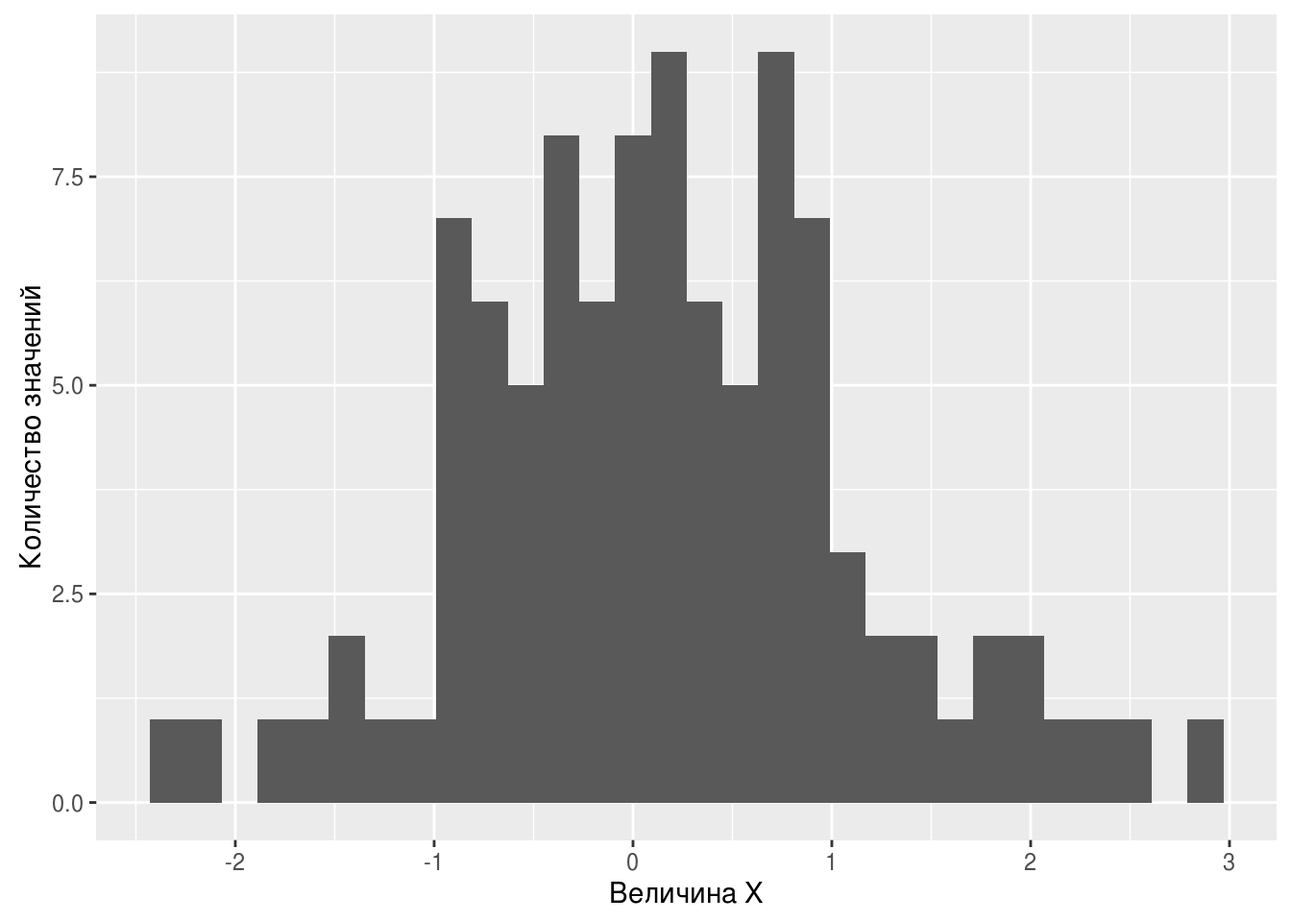
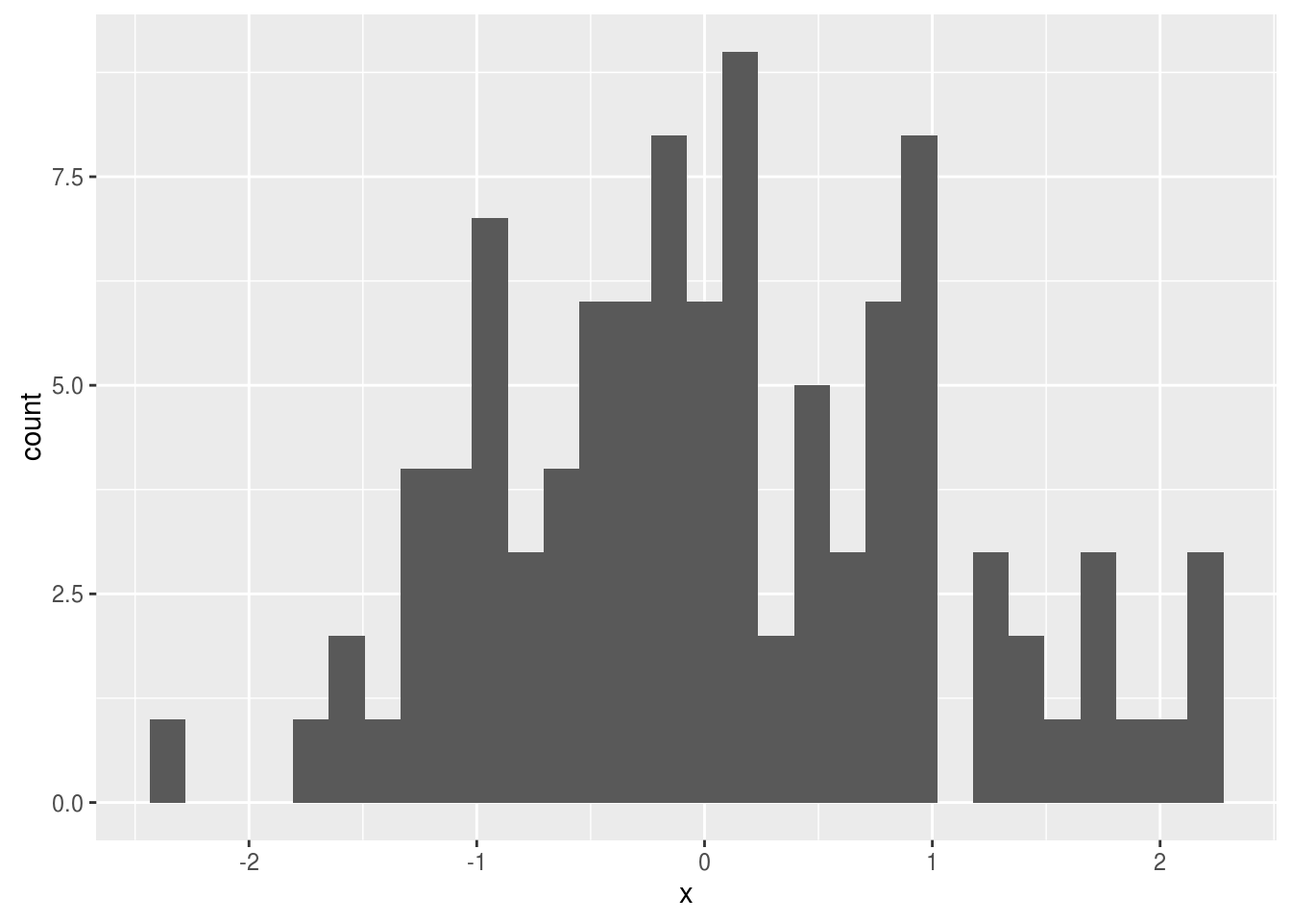
Update the book (29)

diff --git a/first-steps.html b/first-steps.html
@@ -25,7 +25,7 @@
 
 <meta name="author" content="Борис Демешев">
 
-<meta name="date" content="2016-08-24">
+<meta name="date" content="2016-08-25">
 
 <script type="text/x-mathjax-config">
 MathJax.Hub.Config({
@@ -171,7 +171,7 @@ code > span.in { color: #60a0b0; font-weight: bold; font-style: italic; } /* Inf
 <li class="chapter" data-level="3.24" data-path="statistics-and-more.html"><a href="statistics-and-more.html#optimisation"><i class="fa fa-check"></i><b>3.24</b> Задачи оптимизации</a></li>
 </ul></li>
 <li class="divider"></li>
-<li><a href="https://github.com/rstudio/bookdown" target="blank">Создано с использованием пакета bookdown</a></li>
+<li><a href="https://github.com/rstudio/bookdown"   target="blank">Создано с использованием пакета bookdown</a></li>
 
 </ul>
 
@@ -192,8 +192,6 @@ code > span.in { color: #60a0b0; font-weight: bold; font-style: italic; } /* Inf
             <section class="normal" id="section-">
 <div id="first_steps" class="section level1">
 <h1><span class="header-section-number">Глава 1</span> Первые шаги</h1>
-<div class="sourceCode"><pre class="sourceCode r"><code class="sourceCode r"><span class="kw">library</span>(<span class="st">&quot;knitr&quot;</span>)
-<span class="kw">library</span>(<span class="st">&quot;tikzDevice&quot;</span>)</code></pre></div>
 <p>ываыв а ываыв</p>
 <div id="installation" class="section level2">
 <h2><span class="header-section-number">1.1</span> Установка софта</h2>
@@ -246,10 +244,14 @@ code > span.in { color: #60a0b0; font-weight: bold; font-style: italic; } /* Inf
 <p>….</p>
 <p>Если текст программы содержит русские или другие неанглийские буквы, например, в комментариях, то при сохранении файла Rstudio предложит выбрать кодировку.</p>
 <p>картинка</p>
-<p>Кодировка определяет какой конкретно числовой код будет сопоставлен в записанном файле каждой букве. Например, букве <code>ё</code> в кодировке … сопоставлен код …</p>
-<p>Для русского языка есть несколько распространённых кодировок: UTF-8 и CP1251. Linux и Macos используют по умолчанию кодировку UTF-8, а вот Windows сохраняет простые текстовые файлы в CP1251. Здесь сноска: на самом деле всё немного хитрее и помимо CP1251 Windows использует …</p>
+<p>Кодировка определяет какой конкретно числовой код будет сопоставлен в записанном файле каждой букве. Например, букве <code>ё</code> в кодировке UTF-8 сопоставлен десятичный<a href="#fn1" class="footnoteRef" id="fnref1"><sup>1</sup></a> код 1105.</p>
+<p>Для русского языка есть несколько распространённых кодировок: UTF-8 и CP1251. Linux и Macos используют по умолчанию кодировку UTF-8, а вот Windows<a href="#fn2" class="footnoteRef" id="fnref2"><sup>2</sup></a> сохраняет простые текстовые файлы в кодировке CP1251.</p>
 <p>Если русскоязычный файл записать в одной кодировке, а пытаться открыть с помощью другой, то мы увидим на экране “кракозябры”. Поэтому хорошо, когда все используют одну кодировку. Кодировка UTF-8 более универсальна, чем CP1251. Например, с помощью кодировки UTF-8 в одном тексте можно использовать и русские буквы и французские акценты и китайские иероглифы.</p>
-<p>Мы всегда будем использовать кодировку UTF-8.</p>
+<div class="warning">
+<p>
+Мы всегда будем использовать кодировку UTF-8.
+</p>
+</div>
 </div>
 <div id="packages" class="section level2">
 <h2><span class="header-section-number">1.4</span> Установка и подключение пакетов</h2>
@@ -273,7 +275,13 @@ code > span.in { color: #60a0b0; font-weight: bold; font-style: italic; } /* Inf
 <p>С репозитория CRAN пакет ставится командой R:</p>
 <div class="sourceCode"><pre class="sourceCode r"><code class="sourceCode r"><span class="kw">install.packages</span>(<span class="st">&quot;имя пакета&quot;</span>)</code></pre></div>
 <p>В Rstudio установить пакет с репозитория CRAN можно через меню: Tools - Install packages. Далее нужно набрать название пакета, можно указать сразу несколько названий через пробел, и нажать <code>Install</code>.</p>
-<p>Здесь главное — не бояться сообщений красным цветом! Любые <strong>сообщения</strong> (messages) R выводит красным цветом и по неопытности их можно принять за ошибку, что скорее всего не так. Ошибка всегда сопровождается словом <code>Error</code>.</p>
+<div class="warning">
+<p>
+Главное при установке пакета — не бояться сообщений красным цветом!
+</p>
+</div>
+<p>Любые <strong>сообщения</strong> (messages) R выводит красным цветом и по неопытности их можно принять за ошибку, что скорее всего не так. Ошибка всегда сопровождается словом <font color='red'>Error</font>. Если слова <font color='red'>Error</font> нет, то всё идёт по плану!</p>
+<p>Почему R использует красный цвет? Потому, что установка пакета — это потенциально опасное действие, как и установка любой программы. Пакеты на официальном репозитории CRAN проходят определённую проверку, но если ты используешь R для многомиллионных сделок каждый день, то неплохо бы точно знать, что ты ставишь :)</p>
 <p>Установить пакет с github.com немногим сложнее. Здесь надо знать не только название пакета, но и название репозитория, где он хранится. Часто название репозитория — это фамилия автора пакета. Официальной классификации всех пакетов R на github нет, поэтому чтобы понять, какой нужен, остаётся только гуглить.</p>
 <p>Кроме того, для установки пакетов с github.com потребуется установить с официального репозитория</p>
 <p>Джентельменский набор пакетов R зависит от сферы деятельности, но практически всем сталкивающимся с анализом данных пригодятся:</p>
@@ -283,7 +291,7 @@ code > span.in { color: #60a0b0; font-weight: bold; font-style: italic; } /* Inf
 <div class="sourceCode"><pre class="sourceCode r"><code class="sourceCode r">x &lt;-<span class="st"> </span><span class="kw">rnorm</span>(<span class="dv">100</span>) <span class="co"># генерируем случайную выборку из 100 нормальных N(0;1) случайных величин</span>
 ggplot2::<span class="kw">qplot</span>(x) </code></pre></div>
 <pre><code>## `stat_bin()` using `bins = 30`. Pick better value with `binwidth`.</code></pre>
-<p><img src="r_manual_files/figure-html/unnamed-chunk-3-1.png" width="672" /></p>
+<p><img src="r_manual_files/figure-html/unnamed-chunk-4-1.png" width="672" /></p>
 <p>Если же ты хочешь использовать команды некоторого пакета много раз, то проще <strong>подключить</strong> пакет командой <code>library()</code>. При этом не надо будет каждый раз набирать название пакета и двойное двоеточие. Можно просто использовать команды из этого пакеты:</p>
 <div class="sourceCode"><pre class="sourceCode r"><code class="sourceCode r"><span class="kw">library</span>(<span class="st">&quot;ggplot2&quot;</span>) <span class="co"># подключаем пакет `ggplot2`</span>
 
@@ -293,14 +301,18 @@ y &lt;-<span class="st"> </span>x^<span class="dv">2</span> +<span class="st"> <
 <span class="co"># строим гистограмму величины x:</span>
 <span class="kw">qplot</span>(x) +<span class="st"> </span><span class="kw">xlab</span>(<span class="st">&quot;Величина X&quot;</span>) +<span class="st"> </span><span class="kw">ylab</span>(<span class="st">&quot;Количество значений&quot;</span>)</code></pre></div>
 <pre><code>## `stat_bin()` using `bins = 30`. Pick better value with `binwidth`.</code></pre>
-<p><img src="r_manual_files/figure-html/unnamed-chunk-4-1.png" width="672" /></p>
+<p><img src="r_manual_files/figure-html/unnamed-chunk-5-1.png" width="672" /></p>
 <div class="sourceCode"><pre class="sourceCode r"><code class="sourceCode r"><span class="co"># строим диагрраму рассеяния величин x и y:</span>
 <span class="kw">qplot</span>(x, y) +<span class="st"> </span><span class="kw">xlab</span>(<span class="st">&quot;Величина X&quot;</span>) +<span class="st"> </span><span class="kw">ylab</span>(<span class="st">&quot;Величина Y&quot;</span>)</code></pre></div>
-<p><img src="r_manual_files/figure-html/unnamed-chunk-4-2.png" width="672" /></p>
+<p><img src="r_manual_files/figure-html/unnamed-chunk-5-2.png" width="672" /></p>
 <p>При подключении пакета, как и при его установке, не стоит пугаться сообщений красным шрифтом. Только явное слово <code>Error</code> говорит об ошибке. Кроме того, часто можно столкнуться с <strong>предупреждением</strong> (warning) о том, что пакет был создан для более новой версии R.</p>
-<p><code>Warning message: package 'xxx' was built under R version 3.3.1</code></p>
-<p>Это означает лишь то, что …</p>
-<p>Правила хорошего тона советуют подключать все нужные пакеты в начале скрипта.</p>
+<p><font color='red'>Warning message: package ‘xxx’ was built under R version 3.3.1</font></p>
+<p>Это не страшно. Это означает лишь, что у разработчика пакета <code>xxx</code> установлена более свежая версия R, чем у тебя. Обновлять R на своём компьютере при каждом его мелком обновлении, пожалуй, неразумно, но раз в полгода стоит.</p>
+<div class="warning">
+<p>
+Правила хорошего тона советуют подключать все нужные пакеты в начале скрипта.
+</p>
+</div>
 </div>
 <div id="io" class="section level2">
 <h2><span class="header-section-number">1.5</span> Чтение и запись данных</h2>
@@ -424,6 +436,13 @@ x -<span class="st"> </span>y</code></pre></div>
 
 </div>
 </div>
+<div class="footnotes">
+<hr />
+<ol start="1">
+<li id="fn1"><p>Если шестнадцатиричный, то 0451. Ради интереса можно посмотреть сопоставление букв и их кодов в UTF-8, например, на <a href="http://unicode-table.com/ru/">unicode-table.com</a><a href="first-steps.html#fnref1">↩</a></p></li>
+<li id="fn2"><p>На самом деле всё немного хитрее и сама Windows технически использует UTF-16, а вот многие приложения под ней — CP1251.<a href="first-steps.html#fnref2">↩</a></p></li>
+</ol>
+</div>
             </section>
 
           </div>
@@ -465,10 +484,10 @@ gitbook.start({
 "collapse": "section",
 "scroll_highlight": true
 },
+"search": true,
 "toolbar": {
 "position": "fixed"
-},
-"search": true
+}
 });
 });
 </script>

diff --git a/index.html b/index.html
@@ -25,7 +25,7 @@
 
 <meta name="author" content="Борис Демешев">
 
-<meta name="date" content="2016-08-24">
+<meta name="date" content="2016-08-25">
 
 <script type="text/x-mathjax-config">
 MathJax.Hub.Config({
@@ -171,7 +171,7 @@ code > span.in { color: #60a0b0; font-weight: bold; font-style: italic; } /* Inf
 <li class="chapter" data-level="3.24" data-path="statistics-and-more.html"><a href="statistics-and-more.html#optimisation"><i class="fa fa-check"></i><b>3.24</b> Задачи оптимизации</a></li>
 </ul></li>
 <li class="divider"></li>
-<li><a href="https://github.com/rstudio/bookdown" target="blank">Создано с использованием пакета bookdown</a></li>
+<li><a href="https://github.com/rstudio/bookdown"   target="blank">Создано с использованием пакета bookdown</a></li>
 
 </ul>
 
@@ -193,11 +193,62 @@ code > span.in { color: #60a0b0; font-weight: bold; font-style: italic; } /* Inf
 <div id="header">
 <h1 class="title">Учебник по языку R для начинающих</h1>
 <h4 class="author"><em>Борис Демешев</em></h4>
-<h4 class="date"><em>2016-08-24</em></h4>
+<h4 class="date"><em>2016-08-25</em></h4>
 </div>
 <div id="-" class="section level1 unnumbered">
 <h1>О книге</h1>
 <p>Сейчас живут три кита анализа данных и научных вычислений — Julia, Python и R. Эта книга про одного из китов!</p>
+<div class="sourceCode"><pre class="sourceCode r"><code class="sourceCode r"><span class="kw">library</span>(<span class="st">&quot;knitr&quot;</span>)
+<span class="kw">library</span>(<span class="st">&quot;tikzDevice&quot;</span>)
+
+activateTikz &lt;-<span class="st"> </span>function() {
+  
+  <span class="co"># tikz plots options</span>
+  <span class="kw">options</span>(<span class="dt">tikzDefaultEngine =</span> <span class="st">&quot;xetex&quot;</span>)
+  
+  <span class="co"># cash font metrics for speed:</span>
+  <span class="kw">options</span>(<span class="dt">tikzMetricsDictionary =</span> <span class="st">&quot;./tikz_metrics&quot;</span>) 
+  
+  add_xelatex &lt;-<span class="st"> </span><span class="kw">c</span>(<span class="st">&quot;</span><span class="ch">\\</span><span class="st">defaultfontfeatures{Ligatures=TeX,Scale=MatchLowercase}&quot;</span>,
+                   <span class="st">&quot;</span><span class="ch">\\</span><span class="st">setmainfont{Linux Libertine O}&quot;</span>,
+                   <span class="st">&quot;</span><span class="ch">\\</span><span class="st">setmonofont{Linux Libertine O}&quot;</span>,
+                   <span class="st">&quot;</span><span class="ch">\\</span><span class="st">setsansfont{Linux Libertine O}&quot;</span>,
+                   <span class="st">&quot;</span><span class="ch">\\</span><span class="st">newfontfamily{</span><span class="ch">\\</span><span class="st">cyrillicfonttt}{Linux Libertine O}&quot;</span>,
+                   <span class="st">&quot;</span><span class="ch">\\</span><span class="st">newfontfamily{</span><span class="ch">\\</span><span class="st">cyrillicfont}{Linux Libertine O}&quot;</span>,
+                   <span class="st">&quot;</span><span class="ch">\\</span><span class="st">newfontfamily{</span><span class="ch">\\</span><span class="st">cyrillicfontsf}{Linux Libertine O}&quot;</span>)
+  
+  <span class="kw">options</span>(<span class="dt">tikzXelatexPackages =</span> <span class="kw">c</span>(<span class="kw">getOption</span>(<span class="st">&quot;tikzXelatexPackages&quot;</span>),
+                                  add_xelatex))
+  
+  <span class="co"># does remove warnings:</span>
+  <span class="co"># it is important to remove fontenc package wich is loaded by default</span>
+  <span class="kw">options</span>(<span class="dt">tikzUnicodeMetricPackages =</span> <span class="kw">c</span>(<span class="st">&quot;</span><span class="ch">\\</span><span class="st">usetikzlibrary{calc}&quot;</span>,    
+                                        <span class="st">&quot;</span><span class="ch">\\</span><span class="st">usepackage{fontspec, xunicode}&quot;</span>, add_xelatex)) 
+  
+  
+  opts_chunk$<span class="kw">set</span>(<span class="dt">dev =</span> <span class="st">&quot;tikz&quot;</span>, <span class="dt">dev.args =</span> <span class="kw">list</span>(<span class="dt">pointsize =</span> <span class="dv">11</span>))
+}
+
+
+colFmt &lt;-<span class="st"> </span>function(x, color) {
+  outputFormat &lt;-<span class="st"> </span>opts_knit$<span class="kw">get</span>(<span class="st">&quot;rmarkdown.pandoc.to&quot;</span>)
+  if (outputFormat ==<span class="st"> &quot;latex&quot;</span>) {
+    result &lt;-<span class="st"> </span><span class="kw">paste0</span>(<span class="st">&quot;</span><span class="ch">\\</span><span class="st">textcolor{&quot;</span>, color, <span class="st">&quot;}{&quot;</span>, x, <span class="st">&quot;}&quot;</span>)
+  } else if (outputFormat %in%<span class="st"> </span><span class="kw">c</span>(<span class="st">&quot;html&quot;</span>, <span class="st">&quot;epub&quot;</span>)) {
+    result &lt;-<span class="st"> </span><span class="kw">paste0</span>(<span class="st">&quot;&lt;font color=&#39;&quot;</span>, color, <span class="st">&quot;&#39;&gt;&quot;</span>, x, <span class="st">&quot;&lt;/font&gt;&quot;</span>)
+  } else {
+    result &lt;-<span class="st"> </span>x
+  }
+  <span class="kw">return</span>(result)
+}
+
+outputFormat &lt;-<span class="st"> </span>opts_knit$<span class="kw">get</span>(<span class="st">&quot;rmarkdown.pandoc.to&quot;</span>)
+
+
+if (outputFormat ==<span class="st"> &quot;latex&quot;</span>) {
+  <span class="kw">activateTikz</span>()
+}</code></pre></div>
+<p>Данная версия книги скомпилирована для html.</p>
 
 </div>
             </section>
@@ -241,10 +292,10 @@ gitbook.start({
 "collapse": "section",
 "scroll_highlight": true
 },
+"search": true,
 "toolbar": {
 "position": "fixed"
-},
-"search": true
+}
 });
 });
 </script>

diff --git a/friends-of-R.html b/friends-of-R.html
@@ -25,7 +25,7 @@
 
 <meta name="author" content="Борис Демешев">
 
-<meta name="date" content="2016-08-24">
+<meta name="date" content="2016-08-25">
 
 <script type="text/x-mathjax-config">
 MathJax.Hub.Config({
@@ -171,7 +171,7 @@ code > span.in { color: #60a0b0; font-weight: bold; font-style: italic; } /* Inf
 <li class="chapter" data-level="3.24" data-path="statistics-and-more.html"><a href="statistics-and-more.html#optimisation"><i class="fa fa-check"></i><b>3.24</b> Задачи оптимизации</a></li>
 </ul></li>
 <li class="divider"></li>
-<li><a href="https://github.com/rstudio/bookdown" target="blank">Создано с использованием пакета bookdown</a></li>
+<li><a href="https://github.com/rstudio/bookdown"   target="blank">Создано с использованием пакета bookdown</a></li>
 
 </ul>
 
@@ -281,19 +281,23 @@ code > span.in { color: #60a0b0; font-weight: bold; font-style: italic; } /* Inf
 <ol start="8" style="list-style-type: decimal">
 <li>Красный шрифт</li>
 </ol>
-<p>взято с <a href="http://stackoverflow.com/questions/29067541" class="uri">http://stackoverflow.com/questions/29067541</a></p>
-<div class="sourceCode"><pre class="sourceCode r"><code class="sourceCode r"><span class="kw">library</span>(knitr)
-colFmt =<span class="st"> </span>function(x, color) {
-  outputFormat =<span class="st"> </span>opts_knit$<span class="kw">get</span>(<span class="st">&quot;rmarkdown.pandoc.to&quot;</span>)
-  if (outputFormat ==<span class="st"> &#39;latex&#39;</span>) {
-    <span class="kw">paste0</span>(<span class="st">&quot;</span><span class="ch">\\</span><span class="st">textcolor{&quot;</span>, color, <span class="st">&quot;}{&quot;</span>, x, <span class="st">&quot;}&quot;</span>)
-  } else if (outputFormat ==<span class="st"> &#39;html&#39;</span>) {
-    <span class="kw">paste0</span>(<span class="st">&quot;&lt;font color=&#39;&quot;</span>, color, <span class="st">&quot;&#39;&gt;&quot;</span>, x, <span class="st">&quot;&lt;/font&gt;&quot;</span>)
+<p>по мотивам <a href="http://stackoverflow.com/questions/29067541" class="uri">http://stackoverflow.com/questions/29067541</a></p>
+<div class="sourceCode"><pre class="sourceCode r"><code class="sourceCode r">colFmt &lt;-<span class="st"> </span>function(x, color) {
+  outputFormat &lt;-<span class="st"> </span>opts_knit$<span class="kw">get</span>(<span class="st">&quot;rmarkdown.pandoc.to&quot;</span>)
+  if (outputFormat ==<span class="st"> &quot;latex&quot;</span>) {
+    result &lt;-<span class="st"> </span><span class="kw">paste0</span>(<span class="st">&quot;</span><span class="ch">\\</span><span class="st">textcolor{&quot;</span>, color, <span class="st">&quot;}{&quot;</span>, x, <span class="st">&quot;}&quot;</span>)
+  } else if (outputFormat %in%<span class="st"> </span><span class="kw">c</span>(<span class="st">&quot;html&quot;</span>, <span class="st">&quot;epub&quot;</span>)) {
+    result &lt;-<span class="st"> </span><span class="kw">paste0</span>(<span class="st">&quot;&lt;font color=&#39;&quot;</span>, color, <span class="st">&quot;&#39;&gt;&quot;</span>, x, <span class="st">&quot;&lt;/font&gt;&quot;</span>)
   } else {
-    x
+    result &lt;-<span class="st"> </span>x
   }
+  <span class="kw">return</span>(result)
 }</code></pre></div>
 <p>Then you can use it inline like this: <font color='red'>MY RED TEXT</font></p>
+<ol start="9" style="list-style-type: decimal">
+<li>Файл <code>_output.yaml</code> это просто <code>output:</code> кусок из <code>yaml</code>-части файла <code>index.Rmd</code>. Поэтому можно внести <code>_output.yaml</code> обратно в <code>index.Rmd</code>, чтобы все настройки были в одном месте.</li>
+</ol>
+<p>Формально <code>_output.yaml</code> действует на все <code>.Rmd</code> документы в папке, но что там будет кроме учебника в целом. Разве что отдельные главы компилировать :)</p>
 
 </div>
 </div>
@@ -338,10 +342,10 @@ gitbook.start({
 "collapse": "section",
 "scroll_highlight": true
 },
+"search": true,
 "toolbar": {
 "position": "fixed"
-},
-"search": true
+}
 });
 });
 </script>

diff --git a/statistics-and-more.html b/statistics-and-more.html
@@ -25,7 +25,7 @@
 
 <meta name="author" content="Борис Демешев">
 
-<meta name="date" content="2016-08-24">
+<meta name="date" content="2016-08-25">
 
 <script type="text/x-mathjax-config">
 MathJax.Hub.Config({
@@ -171,7 +171,7 @@ code > span.in { color: #60a0b0; font-weight: bold; font-style: italic; } /* Inf
 <li class="chapter" data-level="3.24" data-path="statistics-and-more.html"><a href="statistics-and-more.html#optimisation"><i class="fa fa-check"></i><b>3.24</b> Задачи оптимизации</a></li>
 </ul></li>
 <li class="divider"></li>
-<li><a href="https://github.com/rstudio/bookdown" target="blank">Создано с использованием пакета bookdown</a></li>
+<li><a href="https://github.com/rstudio/bookdown"   target="blank">Создано с использованием пакета bookdown</a></li>
 
 </ul>
 
@@ -204,7 +204,7 @@ code > span.in { color: #60a0b0; font-weight: bold; font-style: italic; } /* Inf
 <div class="sourceCode"><pre class="sourceCode r"><code class="sourceCode r">n_obs &lt;-<span class="st"> </span><span class="dv">10</span>^<span class="dv">6</span>
 x &lt;-<span class="st"> </span><span class="kw">rnorm</span>(n_obs, <span class="dt">mean =</span> <span class="dv">2</span>, <span class="dt">sd =</span> <span class="dv">3</span>)
 <span class="kw">mean</span>(<span class="dv">1</span>/x)</code></pre></div>
-<pre><code>## [1] 0.3681583</code></pre>
+<pre><code>## [1] 0.2950046</code></pre>
 <p>Также легко оценить многие вероятности. Например, оценим вероятность <span class="math inline">\(P(X_1 + X_2 + X_3^2 &gt; 5)\)</span>, где величины <span class="math inline">\(X_i\)</span> независимы и одинаково распределены <span class="math inline">\(X_i \sim U[0;2]\)</span>:</p>
 <div class="sourceCode"><pre class="sourceCode r"><code class="sourceCode r">n_obs &lt;-<span class="st"> </span><span class="dv">10</span>^<span class="dv">6</span>
 x_1 &lt;-<span class="st"> </span><span class="kw">runif</span>(n_obs, <span class="dt">min =</span> <span class="dv">0</span>, <span class="dt">max =</span> <span class="dv">2</span>)
@@ -212,7 +212,7 @@ x_2 &lt;-<span class="st"> </span><span class="kw">runif</span>(n_obs, <span cla
 x_3 &lt;-<span class="st"> </span><span class="kw">runif</span>(n_obs, <span class="dt">min =</span> <span class="dv">0</span>, <span class="dt">max =</span> <span class="dv">2</span>)
 success &lt;-<span class="st"> </span>x_1 +<span class="st"> </span>x_2 +<span class="st"> </span>x_3^<span class="dv">2</span> &gt;<span class="st"> </span><span class="dv">5</span>
 <span class="kw">sum</span>(success) /<span class="st"> </span>n_obs</code></pre></div>
-<pre><code>## [1] 0.147166</code></pre>
+<pre><code>## [1] 0.146906</code></pre>
 <p>Здесь вектор <code>success</code> будет содержать значение TRUE там, где условие <code>x_1 + x_2 + x_3^2 &gt; 5</code> выполнено, и FALSE там, где условие не выполнено. При сложении командой <code>sum()</code> каждое TRUE будет посчитано как единица, а каждое FALSE как ноль. Поэтому <code>sum(success)</code> даст количество раз, когда условие <code>x_1 + x_2 + x_3^2 &gt; 5</code> выполнено.</p>
 <p>… тут ещё несколько распределений</p>
 <p>… помимо генерации случайных чисел нарисуем функции плотности и распределения</p>
@@ -325,6 +325,13 @@ success &lt;-<span class="st"> </span>x_1 +<span class="st"> </span>x_2 +<span c
 </div>
 </div>
 </div>
+
+
+
+
+
+
+
             </section>
 
           </div>
@@ -366,10 +373,10 @@ gitbook.start({
 "collapse": "section",
 "scroll_highlight": true
 },
+"search": true,
 "toolbar": {
 "position": "fixed"
-},
-"search": true
+}
 });
 });
 </script>
